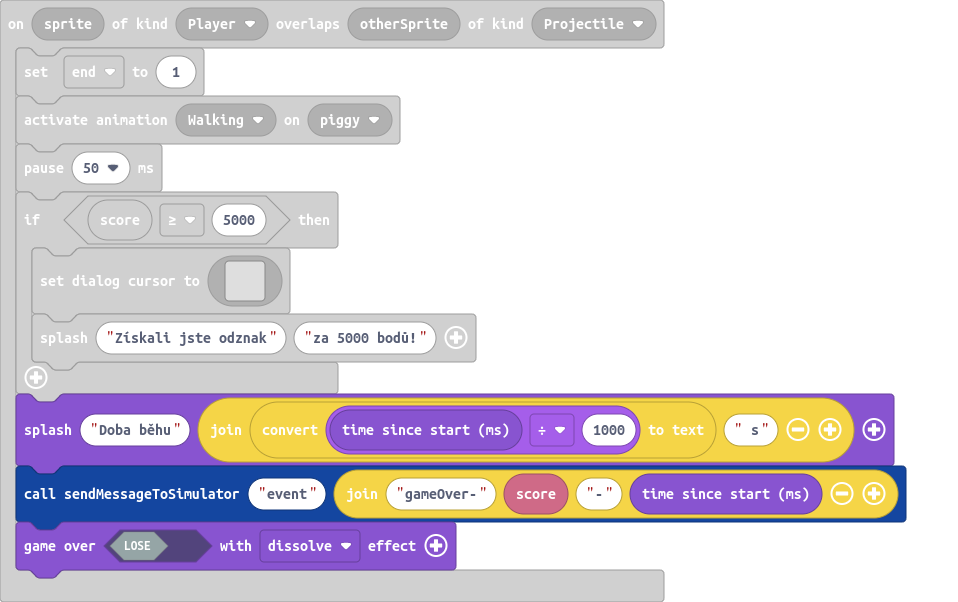
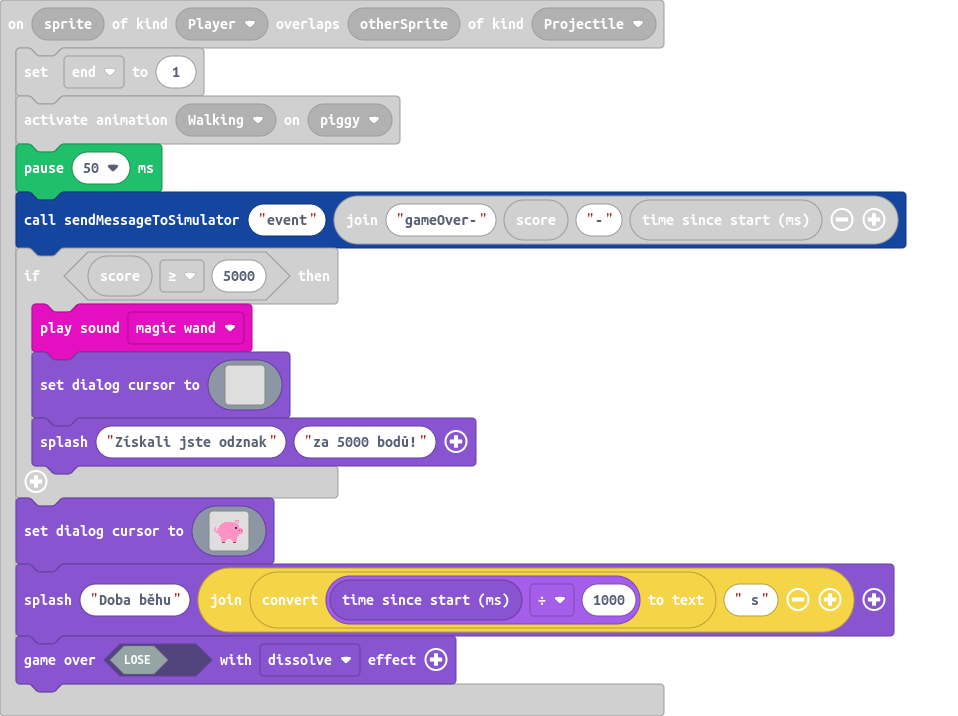
Update main.blocks, main.ts, images.g.jres, images.g.ts

diff --git a/images.g.ts b/images.g.ts
@@ -437,78 +437,6 @@ c2222111122111c2222112c.
 .....d11dd.......ccccc..
 .....d1dd........d1d....
 `;
-            case "image9":return img`
-. . . . . . . . . . . . . . . . 
-. . . . . . . . . . . . . . . . 
-. . . . . . . . . . . . . . . . 
-. . . . . . . . . . . . . . . . 
-. . . . . . . . . . . . . . . . 
-. . . . . . . . . . . . . . . . 
-. . . . . . . . . . . . . . . . 
-. . . . . . . . . . . . . . . . 
-. . . . . . . . . . . . . . . . 
-. . . . . . . . . . . . . . . . 
-. . . . . . . . . . . . . . . . 
-. . . . . . . . . . . . . . . . 
-. . . . . . . . . . . . . . . . 
-. . . . . . . . . . . . . . . . 
-. . . . . . . . . . . . . . . . 
-. . . . . . . . . . . . . . . . 
-`;
-            case "image11":return img`
-. . . . . . . . . . . . . . . . 
-. . . . . . . . . . . . . . . . 
-. . . . . . . . . . . . . . . . 
-. . . . . . . . . . . . . . . . 
-. . . . . . . . . . . . . . . . 
-. . . . . . . . . . . . . . . . 
-. . . . . . . . . . . . . . . . 
-. . . . . . . . . . . . . . . . 
-. . . . . . . . . . . . . . . . 
-. . . . . . . . . . . . . . . . 
-. . . . . . . . . . . . . . . . 
-. . . . . . . . . . . . . . . . 
-. . . . . . . . . . . . . . . . 
-. . . . . . . . . . . . . . . . 
-. . . . . . . . . . . . . . . . 
-. . . . . . . . . . . . . . . . 
-`;
-            case "image5":return img`
-. . . . . . . . . . . . . . . . 
-. . . . . . . . . . . . . . . . 
-. . . . . . . . . . . . . . . . 
-. . . . . . . . . . . . . . . . 
-. . . . . . . . . . . . . . . . 
-. . . . . . . . . . . . . . . . 
-. . . . . . . . . . . . . . . . 
-. . . . . . . . . . . . . . . . 
-. . . . . . . . . . . . . . . . 
-. . . . . . . . . . . . . . . . 
-. . . . . . . . . . . . . . . . 
-. . . . . . . . . . . . . . . . 
-. . . . . . . . . . . . . . . . 
-. . . . . . . . . . . . . . . . 
-. . . . . . . . . . . . . . . . 
-. . . . . . . . . . . . . . . . 
-`;
-            case "image7":return img`
-. . . . . . . . . . . . . . . . 
-. . . . . . . . . . . . . . . . 
-. . . . . . . . . . . . . . . . 
-. . . . . . . . . . . . . . . . 
-. . . . . . . . . . . . . . . . 
-. . . . . . . . . . . . . . . . 
-. . . . . . . . . . . . . . . . 
-. . . . . . . . . . . . . . . . 
-. . . . . . . . . . . . . . . . 
-. . . . . . . . . . . . . . . . 
-. . . . . . . . . . . . . . . . 
-. . . . . . . . . . . . . . . . 
-. . . . . . . . . . . . . . . . 
-. . . . . . . . . . . . . . . . 
-. . . . . . . . . . . . . . . . 
-. . . . . . . . . . . . . . . . 
-`;
             case "image10":return img`
 . . . . . . . . . . . . . . . . 
 . . . . . . . . . . . . . . . . 
@@ -527,41 +455,23 @@ c2222111122111c2222112c.
 . . . . . . . . . . . . . . . . 
 . . . . . . . . . . . . . . . . 
 `;
-            case "image12":return img`
-. . . . . . . . . . . . . . . . 
-. . . . . . . . . . . . . . . . 
-. . . . . . . . . . . . . . . . 
-. . . . . . . . . . . . . . . . 
-. . . . . . . . . . . . . . . . 
-. . . . . . . . . . . . . . . . 
-. . . . . . . . . . . . . . . . 
-. . . . . . . . . . . . . . . . 
-. . . . . . . . . . . . . . . . 
-. . . . . . . . . . . . . . . . 
-. . . . . . . . . . . . . . . . 
-. . . . . . . . . . . . . . . . 
-. . . . . . . . . . . . . . . . 
-. . . . . . . . . . . . . . . . 
-. . . . . . . . . . . . . . . . 
-. . . . . . . . . . . . . . . . 
-`;
-            case "image13":return img`
-. . . . . . . . . . . . . . . . 
-. . . . . . . . . . . . . . . . 
-. . . . . . . . . . . . . . . . 
-. . . . . . . . . . . . . . . . 
-. . . . . . . . . . . . . . . . 
-. . . . . . . . . . . . . . . . 
-. . . . . . . . . . . . . . . . 
-. . . . . . . . . . . . . . . . 
-. . . . . . . . . . . . . . . . 
-. . . . . . . . . . . . . . . . 
-. . . . . . . . . . . . . . . . 
-. . . . . . . . . . . . . . . . 
-. . . . . . . . . . . . . . . . 
-. . . . . . . . . . . . . . . . 
-. . . . . . . . . . . . . . . . 
-. . . . . . . . . . . . . . . . 
+            case "image15":
+            case "dialogFrame":return img`
+8 9 8 9 8 9 8 9 8 9 8 9 8 9 8 
+9 9 9 9 9 9 9 9 9 9 9 9 9 9 9 
+9 9 9 9 9 9 9 9 9 9 9 9 9 9 9 
+9 9 9 9 9 9 9 9 9 9 9 9 9 9 9 
+9 9 9 9 9 9 9 9 9 9 9 9 9 9 9 
+9 9 9 9 9 9 9 9 9 9 9 9 9 9 9 
+9 9 9 9 9 9 9 9 9 9 9 9 9 9 9 
+9 9 9 9 9 9 9 9 9 9 9 9 9 9 9 
+9 9 9 9 9 9 9 9 9 9 9 9 9 9 9 
+9 9 9 9 9 9 9 9 9 9 9 9 9 9 9 
+9 9 9 9 9 9 9 9 9 9 9 9 9 9 9 
+9 9 9 9 9 9 9 9 9 9 9 9 9 9 9 
+9 9 9 9 9 9 9 9 9 9 9 9 9 9 9 
+9 9 9 9 9 9 9 9 9 9 9 9 9 9 9 
+9 9 9 9 9 9 9 9 9 9 9 9 9 9 9 
 `;
         }
         return null;

diff --git a/main.ts b/main.ts
@@ -64,7 +64,9 @@ sprites.onOverlap(SpriteKind.Player, SpriteKind.Projectile, function (sprite, ot
     end = 1
     animation.setAction(piggy, ActionKind.Dead)
     pause(50)
+    sendMessageToSimulator("event", "gameOver-" + info.score() + "-" + game.runtime())
     if (info.score() >= 5000) {
+        music.magicWand.play()
         game.setDialogCursor(img`
             . . . . . . . . . . . . . . . . 
             . . . . . . . . . . . . . . . . 
@@ -85,8 +87,8 @@ sprites.onOverlap(SpriteKind.Player, SpriteKind.Projectile, function (sprite, ot
             `)
         game.splash("Získali jste odznak", "za 5000 bodů!")
     }
+    game.setDialogCursor(assets.image`piggy 1`)
     game.splash("Doba běhu", "" + convertToText(game.runtime() / 1000) + " s")
-    sendMessageToSimulator("event", "gameOver-" + info.score() + "-" + game.runtime())
     game.over(false, effects.dissolve)
 })
 function initFlyAnimation () {
